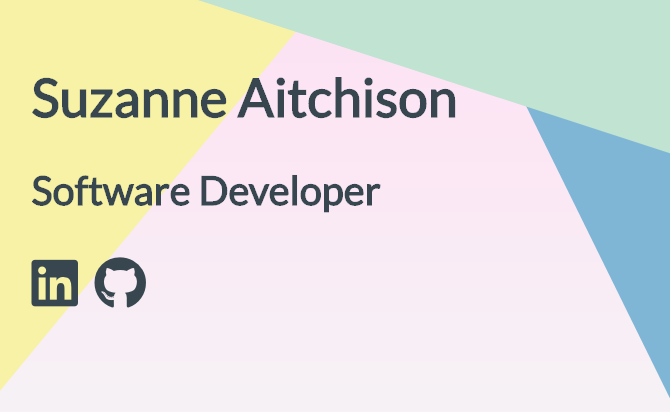
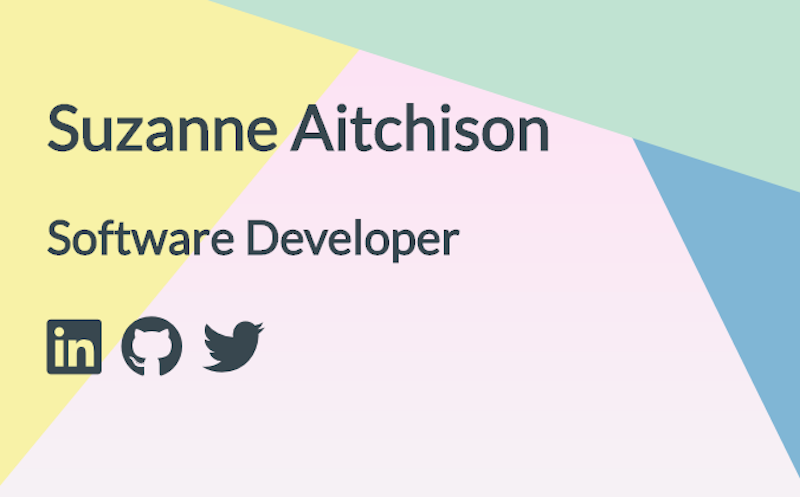
add twitter profile

diff --git a/index.html b/index.html
@@ -31,6 +31,9 @@
       <a href="https://github.com/aitchiss" aria-label="Github Profile" class="contact-icon">
         <i class="fab fa-github" aria-hidden="true"></i>
       </a>
+      <a href="https://twitter.com/s_aitchison" aria-label="Twitter Profile" class="contact-icon">
+        <i class="fab fa-twitter" aria-hidden="true"></i>
+      </a>
     </div>
   </header>
   <section class="general-details">
@@ -38,8 +41,9 @@
       <div class="bio">
         <h2 class="about-header">About</h2>
         <p>I am a Software Developer based in Edinburgh, currently working for Nucleus Financial, specialising in React development.</p>
-        <p>I am also the creator and maintainer of <a href="https://www.upyoura11y.com">Up Your A11y</a>, a resource for web developers to find useful information on how to make web apps more accessible, particularly focusing on Single Page Applications made in React.</p>
-        <p>I also <a href="https://dev.to/s_aitchison">blog regularly on DEV</a>, and <a href="https://dev.to/s_aitchison/my-a11y-hacktoberfest-retro-34op">contribute to Open Source projects</a>, particularly with the aim of auditing and solving accessibility issues.</p>
+        <p>I'm also the creator and maintainer of <a href="https://www.upyoura11y.com">Up Your A11y</a>, a resource for web developers to find useful information on how to make web apps more accessible, particularly focusing on Single Page Applications made in React.</p>
+        <p>I <a href="https://dev.to/s_aitchison">blog regularly on DEV</a>, and <a href="https://dev.to/s_aitchison/my-a11y-hacktoberfest-retro-34op">contribute to Open Source projects</a>, particularly with the aim of auditing and solving accessibility issues.</p>
+        <p>Feel free to reach our via <a href="https://twitter.com/s_aitchison">my Twitter</a>; I'm always especially happy to talk all things accessibility!</p>
       </div>
       <div class="experience-checklist">
         <h2 class="about-header">Recent blog posts</h2>
